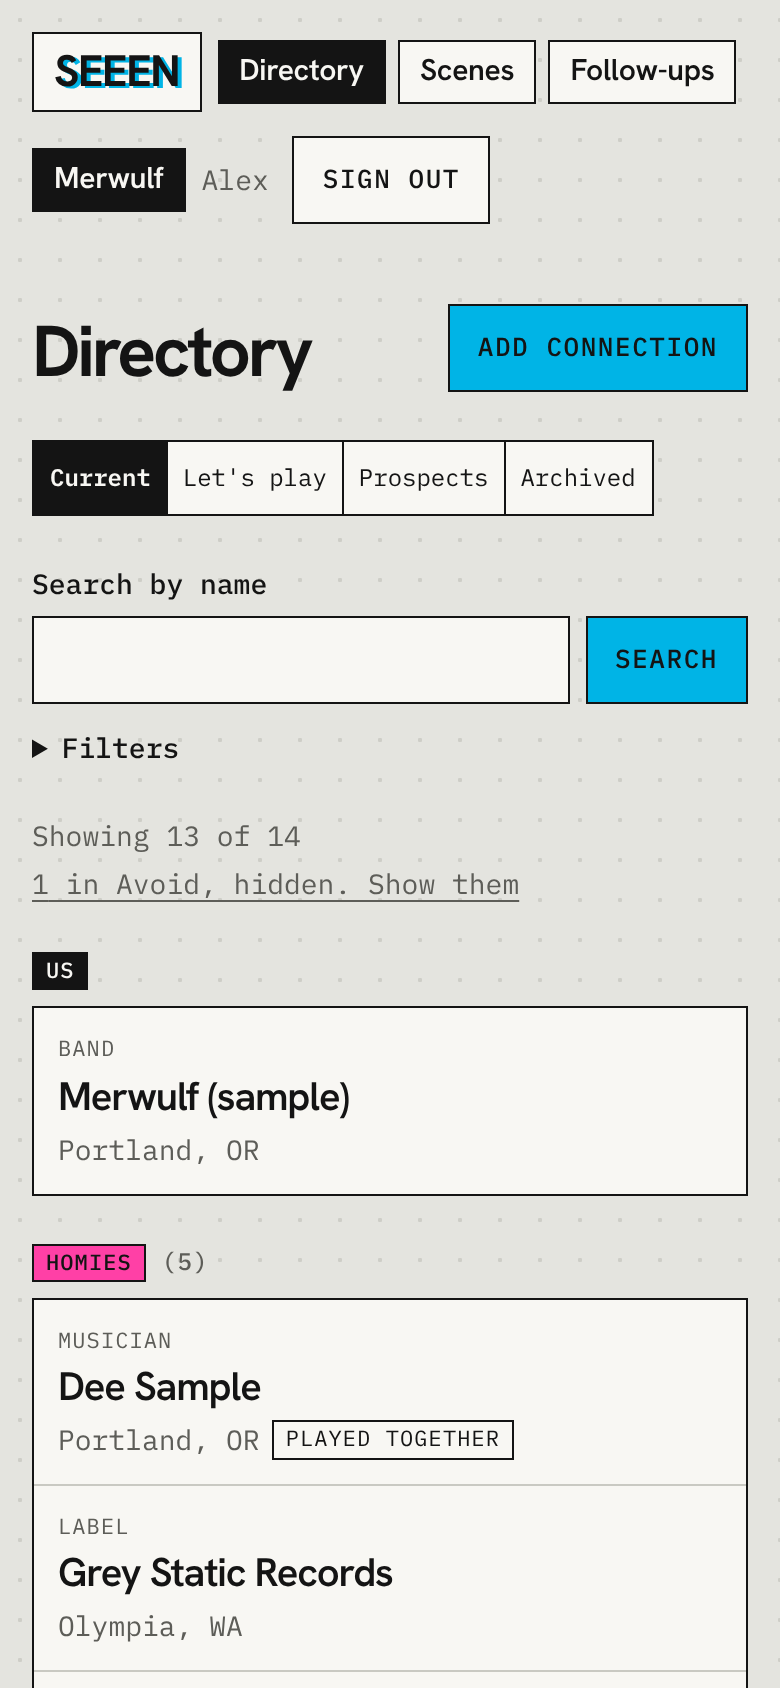
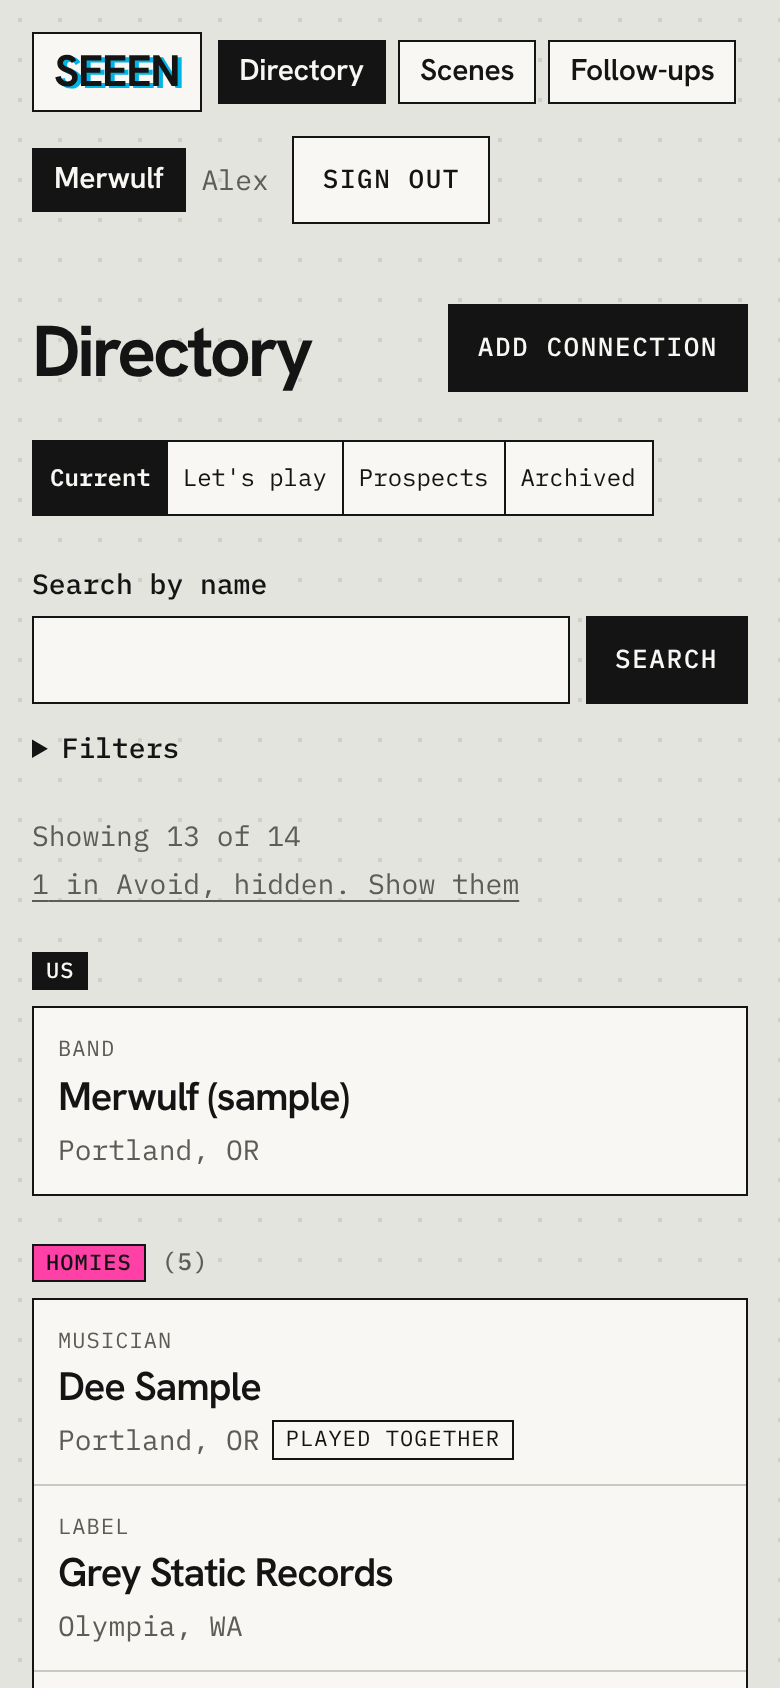
Make ink the primary accent; save color for highlights and tags
- color/accent/primary is now ink. Primary buttons are ink and invert
  to paper on hover; secondary buttons invert to ink.
- Rows, chips, segments, and choices hover to a quiet ground tint
  (new color/bg/hover). Links thicken their underline on hover.
- Checked controls keep a visible native control on the ink fill.
- Magenta highlighter swipe on the login hero, from the Xerox Lab.
- README screenshots refreshed.

Claude-Session: https://claude.ai/code/session_01SMP6NnJD4WfxjNFgksjBuR

Changed region(s): [[0.5538, 0.154, 0.9538, 0.2464], [0.7385, 0.3389, 0.9538, 0.4313]]

diff --git a/src/app/globals.css b/src/app/globals.css
@@ -41,8 +41,10 @@
   --color-plate-cyan: var(--plate-cyan);
   --color-plate-magenta: var(--plate-magenta);
   --color-plate-yellow: var(--plate-yellow);
-  /* Primary accent: primary buttons, hover, checked controls. */
-  --color-accent-primary: var(--plate-cyan);
+  /* Primary accent is ink. Color is saved for highlights and tags. */
+  --color-accent-primary: var(--ink-900);
+  /* Hover on paper controls and rows: a quiet step toward the ground. */
+  --color-bg-hover: var(--ground-200);
   --color-status-homie: var(--plate-magenta);
   --color-status-prospect: var(--plate-cyan);
   --color-status-lets-play: var(--plate-yellow);
@@ -183,6 +185,19 @@
     text-transform: uppercase;
     color: var(--color-text-secondary);
   }
+  /* Highlighter swipe behind type (Xerox Lab hero). Color as a highlight,
+     never as text color. */
+  .swipe {
+    background: linear-gradient(
+      transparent 44%,
+      var(--color-plate-magenta) 44%,
+      var(--color-plate-magenta) 82%,
+      transparent 82%
+    );
+    padding-right: 0.04em;
+    -webkit-box-decoration-break: clone;
+    box-decoration-break: clone;
+  }
   .hand {
     font-family: var(--type-hand);
     font-size: 30px;
@@ -215,8 +230,8 @@
     border-width: 2px;
   }
 
-  /* Buttons: mono, boxed, accent (cyan) on hover (Figma Button). Primary
-     is filled with the accent; secondary is paper. */
+  /* Buttons: mono, boxed (Figma Button). Primary is ink; secondary is
+     paper. Hover inverts each one. */
   .button-primary,
   .button-secondary {
     display: inline-flex;
@@ -236,16 +251,18 @@
   }
   .button-primary {
     background: var(--color-accent-primary);
+    color: var(--color-text-inverse);
   }
   .button-secondary {
     background: var(--color-bg-surface);
   }
   .button-primary:hover:not(:disabled) {
-    background: var(--color-bg-inverse);
-    color: var(--color-text-inverse);
+    background: var(--color-bg-surface);
+    color: var(--color-text-primary);
   }
   .button-secondary:hover:not(:disabled) {
     background: var(--color-accent-primary);
+    color: var(--color-text-inverse);
   }
   .button-primary:disabled,
   .button-secondary:disabled {
@@ -274,12 +291,16 @@
     accent-color: var(--color-accent-primary);
   }
   .choice:hover {
-    background: var(--color-accent-primary);
+    background: var(--color-bg-hover);
   }
   .choice:has(input:checked) {
     background: var(--color-bg-inverse);
     color: var(--color-text-inverse);
     font-weight: 600;
+  }
+  /* Keep the native control visible on the ink fill. */
+  .choice:has(input:checked) input {
+    accent-color: var(--paper-50);
   }
   .choice:has(input:focus-visible) {
     outline: 2px solid var(--color-focus-outline);
@@ -314,7 +335,7 @@
     }
   }
   .segmented > *:hover {
-    background: var(--color-accent-primary);
+    background: var(--color-bg-hover);
   }
   .segmented > [aria-current="page"] {
     background: var(--color-bg-inverse);
@@ -351,10 +372,9 @@
     color: var(--color-text-inverse);
   }
 
-  /* Whole-row links (directory, follow-ups). On hover the row takes the
-     accent; muted text goes full ink so it stays readable on cyan. */
+  /* Whole-row links (directory, follow-ups): a quiet hover tint. */
   .row-link:hover {
-    background: var(--color-accent-primary);
+    background: var(--color-bg-hover);
   }
 
   .link {
@@ -363,7 +383,7 @@
     text-underline-offset: 3px;
   }
   .link:hover {
-    background: var(--color-accent-primary);
+    text-decoration-thickness: 2px;
   }
   /* Stand-alone text actions (Edit, Remove): at least 24px tall to tap. */
   .action-link {
@@ -375,7 +395,7 @@
     text-underline-offset: 3px;
   }
   .action-link:hover {
-    background: var(--color-accent-primary);
+    text-decoration-thickness: 2px;
   }
 
   /* Nav chip (Figma Nav Chip): Hanken in a box; current page inverts. */
@@ -392,7 +412,7 @@
     letter-spacing: -0.01em;
   }
   .nav-chip:hover {
-    background: var(--color-accent-primary);
+    background: var(--color-bg-hover);
   }
   .nav-chip[aria-current="page"] {
     background: var(--color-bg-inverse);
@@ -410,13 +430,5 @@
     font-weight: 700;
     letter-spacing: -0.03em;
     text-shadow: var(--misregister-cyan);
-  }
-}
-
-/* Must sit in the utilities layer to override .text-muted. */
-@layer utilities {
-  .row-link:hover .text-muted,
-  .row-link:hover .caption {
-    color: var(--color-text-primary);
   }
 }

diff --git a/src/app/login/page.tsx b/src/app/login/page.tsx
@@ -14,7 +14,7 @@ export default function LoginPage() {
         <p className="font-display text-5xl leading-[0.9] font-bold tracking-[-0.045em] sm:text-[96px]">
           Your people.
           <br />
-          Your scenes.
+          <span className="swipe">Your scenes.</span>
         </p>
       </header>
 

diff --git a/docs/design-system/rules.md b/docs/design-system/rules.md
@@ -4,10 +4,10 @@ Status: phase 1 tokens are in. The source of truth is the Seeen Figma file ("Com
 
 ## Tokens (phase 1)
 
-- **Color:** ink `#141414` on paper `#f8f7f3`, over a dotted ground `#e4e4df`. The secondary text is `#5d5d58`. Process plates are for status and accents. Cyan is the primary accent (`color/accent/primary`): primary buttons, hover, and checked controls. Status plates: magenta (Homies), cyan (Prospect), and yellow (Let's play).
+- **Color:** ink `#141414` on paper `#f8f7f3`, over a dotted ground `#e4e4df`. The secondary text is `#5d5d58`. Process plates are for status and accents. Ink is the primary accent (`color/accent/primary`), used for primary buttons and checked controls. Hover is a quiet ground tint (`color/bg/hover`) or an inversion. Color is saved for highlights and tags. Status plates: magenta (Homies), cyan (Prospect), and yellow (Let's play).
 - **Type:** Hanken Grotesk for headings and nav. IBM Plex Mono for body, labels, and controls. Reenie Beanie for rare handwritten notes. Fonts are self-hosted with Fontsource.
 - **Shape:** square corners everywhere, 1px ink borders, and a 1.5px border on windows. Windows get a hard offset shadow; buttons have none for now.
-- **Components:** `.panel`, `.window`, `.field`, `.button-primary` (cyan), `.button-secondary` (paper, cyan on hover), `.choice` (segment that inverts when on), `.segmented`, `.tag` with `.tag-{status}`, `.nav-chip`, `.logo` (cyan misregister), `.label`, and `.caption`.
+- **Components:** `.panel`, `.window`, `.field`, `.button-primary` (ink), `.button-secondary` (paper; both invert on hover), `.choice` (segment that inverts when on), `.segmented`, `.tag` with `.tag-{status}`, `.nav-chip`, `.logo` (cyan misregister), `.label`, and `.caption`.
 - **Status and state colors:** Let's play is the yellow plate and Avoid/"Us" is an ink tag. Error red is `#b0002a`. Focus is a 2px ink outline plus a magenta glow. All are Figma variables (`color/status/*`, `color/text/error`, `color/border/error`, `color/focus/*`), and their code syntax matches the CSS names.
 - **Later phases:** xerox shader on photos, cut-out edges, tape, and rub-down type texture.
 
